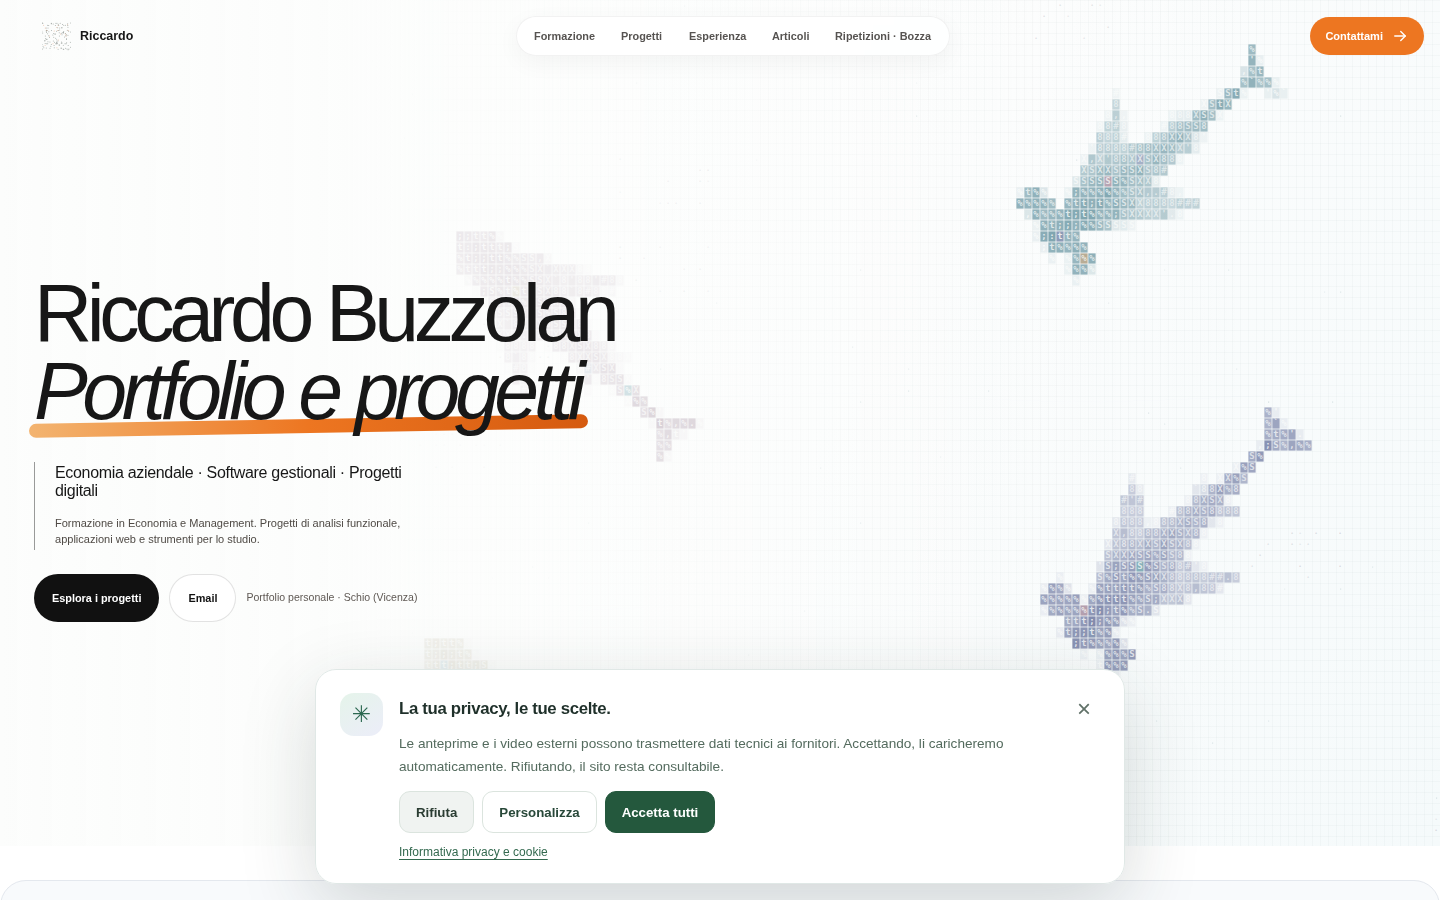
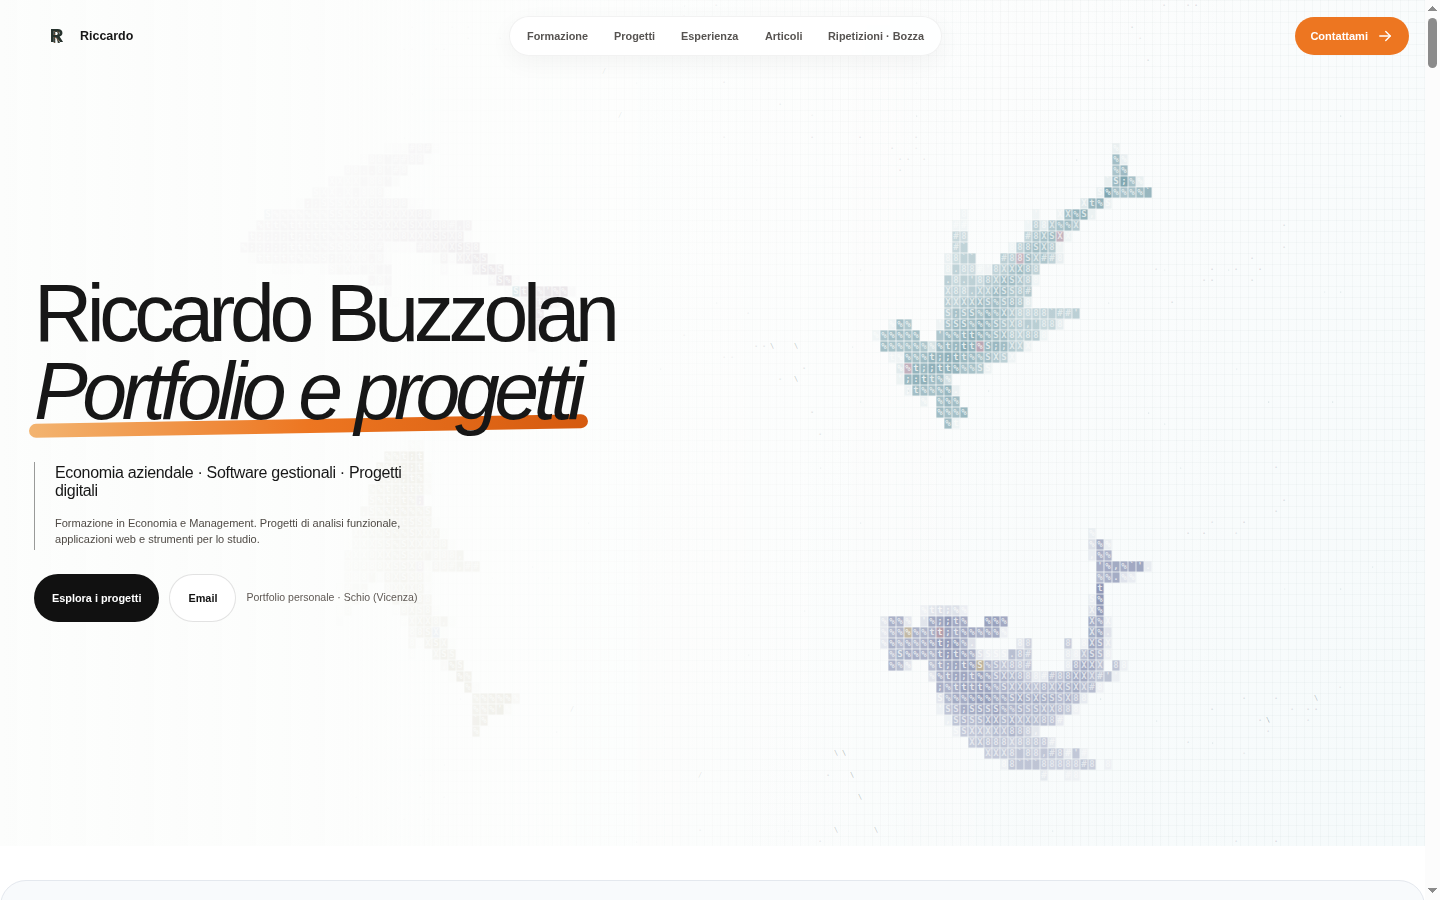
Migliora screenshot desktop e mobile della documentazione (#42)
* Prepara acquisizione screenshot browser

* Acquisisce screenshot senza banner privacy

* Corregge esecuzione asincrona cattura browser

* Aggiorna screenshot reali desktop e mobile

* Documenta anche la versione mobile del sito

* Rimuove lo script temporaneo di acquisizione immagini

* Rimuove lo script temporaneo di acquisizione immagini

---------

diff --git a/README.md b/README.md
@@ -8,6 +8,13 @@ Pagina dedicata alle ripetizioni a Schio, Vicenza e online. Raccoglie informazio
 
 ![Schermata desktop reale del sito pubblicato](docs/images/screenshot-desktop.png)
 
+<details>
+<summary>Screenshot mobile</summary>
+
+![Schermata mobile del sito](docs/images/screenshot-mobile.png)
+
+</details>
+
 ## Come funziona
 
 ![Schema del flusso principale](docs/images/flusso.svg)
